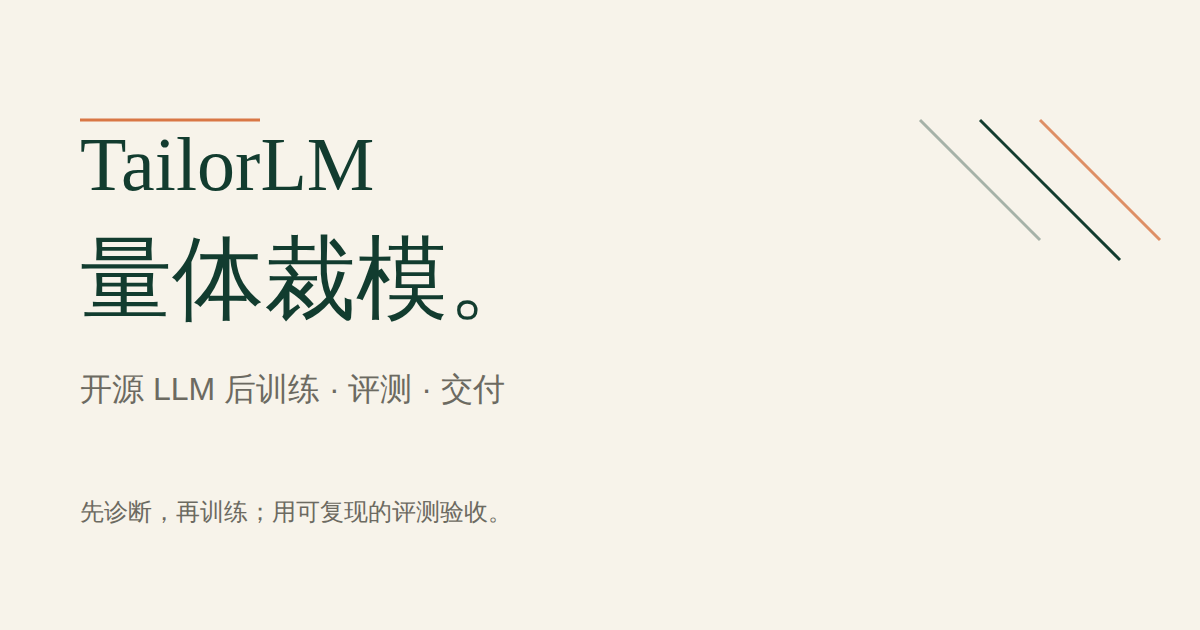
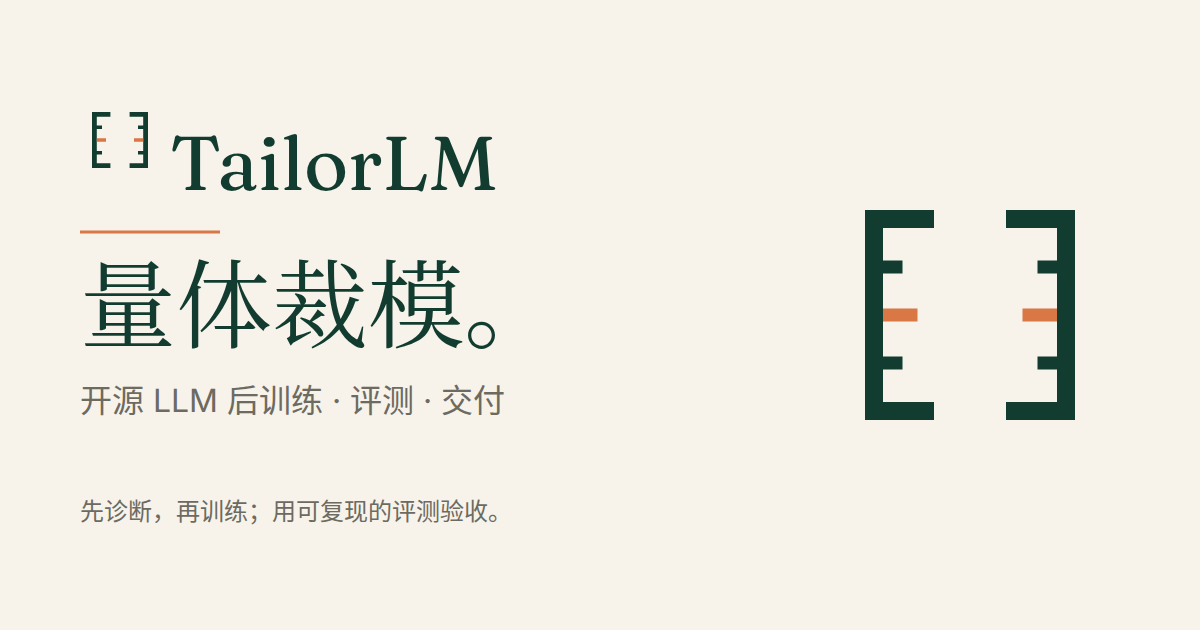
feat: adopt the tape-bracket mark and add brand assets

diff --git a/public/brand/README.md b/public/brand/README.md
@@ -1,18 +1,25 @@
 # TailorLM brand assets
 
-Canonical source for the TailorLM mark, favicon and social card.
+TailorLM 的 mark、favicon 和社交卡。选定方案：**量尺括号（Tape Bracket）**。
+
+`[ ]` 既是上下文窗口/张量边界，也是裁缝软尺；中间一道焦橙刻度对应“量体裁模”。
 
 ## Files
 
 | 文件 | 用途 |
 | --- | --- |
-| `tailorlm-mark.svg` | 主 mark，64×64，深绿 + 焦橙 |
+| `tailorlm-mark.svg` | 主 mark，透明底，深绿 + 焦橙，100 网格 |
+| `tailorlm-mark-small.svg` | 小尺寸光学版，加粗、只留中点，16–28px 用 |
 | `tailorlm-mark-mono.svg` | 单色版，`currentColor` |
-| `tailorlm-mark-512.png` | GitHub org avatar / social |
-| `og.png` | 1200×630 社交卡 |
-| `README.md` | 本文件 |
+| `tailorlm-mark-small-mono.svg` | 小尺寸单色版，16–28px 用 |
+| `tailorlm-mark-512.png` | 透明底 512px mark |
+| `tailorlm-avatar-512.png` | 深绿底头像，GitHub / 闲鱼 / 淘宝 |
+| `tailorlm-avatar-light-512.png` | 米白底头像，浅色场景 |
+| `tailorlm-favicon.svg` | favicon，深绿圆角底 + 米白括号 + 橙中点 |
+| `tailorlm-favicon-32.png` | PNG favicon 兜底 |
+| `../og.png` | 1200×630 社交卡，源文件 `../og.svg` |
 
-新 logo 确认前，`public/favicon.svg` 和 `public/og.png` 是临时版本。
+`public/favicon.svg` 是 `tailorlm-favicon.svg` 的副本，保持根路径可用。
 
 ## 颜色
 
@@ -23,40 +30,30 @@ Canonical source for the TailorLM mark, favicon and social card.
 | 米白 | `#F7F3EA` |
 | 灰 | `#6C6A61` |
 
-## 规则
+## 用法
 
-- mark 必须在 16×16 下可辨认，且有一色版。
-- 不用渐变、阴影、滤镜、细发丝线、3D。
-- mark 内不放文字；wordmark 用站点字体 Fraunces，不塞进 SVG。
-- 留白 ≥ mark 宽度的 1/4。
-- 不拉伸、不旋转、不换色、不加特效。
-- 不把 mark 当项目符号或底纹，除非有明确设计。
+- 页头 / 正文 mark：≥ 32px 用 `tailorlm-mark.svg`；16–28px 用 `tailorlm-mark-small.svg`。
+- favicon：`tailorlm-favicon.svg`；16px 下只保留括号和中点，不再加细节。
+- 头像：GitHub 组织、闲鱼、淘宝用深绿底 `tailorlm-avatar-512.png`；浅色背景用 `tailorlm-avatar-light-512.png`。
+- 单色印刷 / 深色底：用 `tailorlm-mark-mono.svg`，颜色继承 `currentColor`。
+- 安全留白：mark 四周至少留 mark 宽度的 1/4，不贴边。
+- 不拉伸、不旋转、不换色、不加阴影/渐变/描边特效；不把 mark 当底纹或项目符号。
+- mark 内不放文字；wordmark 用站点字体 Fraunces，由 HTML 排版，不塞进 SVG。
 
-## 验收 SVG
+## 验收
 
-- [ ] `viewBox="0 0 64 64"`，无 `width`/`height` 或固定 64
-- [ ] 无 `<text>`、`<style>`、渐变、滤镜、mask、clipPath
-- [ ] 只有 path/rect/circle/line/polyline/polygon
-- [ ] 64px 下描边 ≥ 2px
-- [ ] 16px 下可辨认
-- [ ] 有单色版
-- [ ] 无外部图片、无 base64
-- [ ] 文件 < 10 KB
+- [x] `viewBox="0 0 100 100"`，无固定 `width`/`height`（PNG 除外）
+- [x] 无 `<text>`、`<style>`、渐变、滤镜、mask、clipPath、外链、base64
+- [x] 只有 path / rect
+- [x] 64px 下主 mark 描边 3.84px；小尺寸版 6.4px
+- [x] 16px 下用 `tailorlm-mark-small.svg` 可辨认
+- [x] 有单色版、深底头像、浅底头像
+- [x] SVG 文件均 < 1 KB
 
-## 用在哪
+## 来源
 
-- 页头：inline SVG 或 `/brand/tailorlm-mark.svg`
-- favicon：`/brand/tailorlm-mark.svg`
-- OG：`public/og.png`
-- GitHub org avatar：在组织设置上传 `tailorlm-mark-512.png`
-- Org profile：把 `tailorlm-mark-512.png` 复制到 `.github/profile/assets/`，保证渲染稳定
-- Repo social preview：在仓库设置上传 `og.png`
+方案由 Gemini 生成的 SVG 打样页（100 网格、单色几何）选出，人工做了三处调整：
 
-## 上传流程
-
-1. Gemini 输出 SVG 代码；
-2. 发我，我清洗、压缩、做单色版和 16px 检查；
-3. 我提交到 `tailorlm/public/brand/`；
-4. 替换页头、favicon、OG；
-5. 复制 PNG 到 `.github/profile/assets/`；
-6. 你在 GitHub 组织设置和仓库设置里上传头像/社交预览。
+1. 焦橙只保留中点刻度，并缩进到括号内缘，避免把括号切断；
+2. 增加 16–28px 光学版（加粗、去掉上下刻度）；
+3. 补深绿/米白头像底和 favicon 圆角底。
